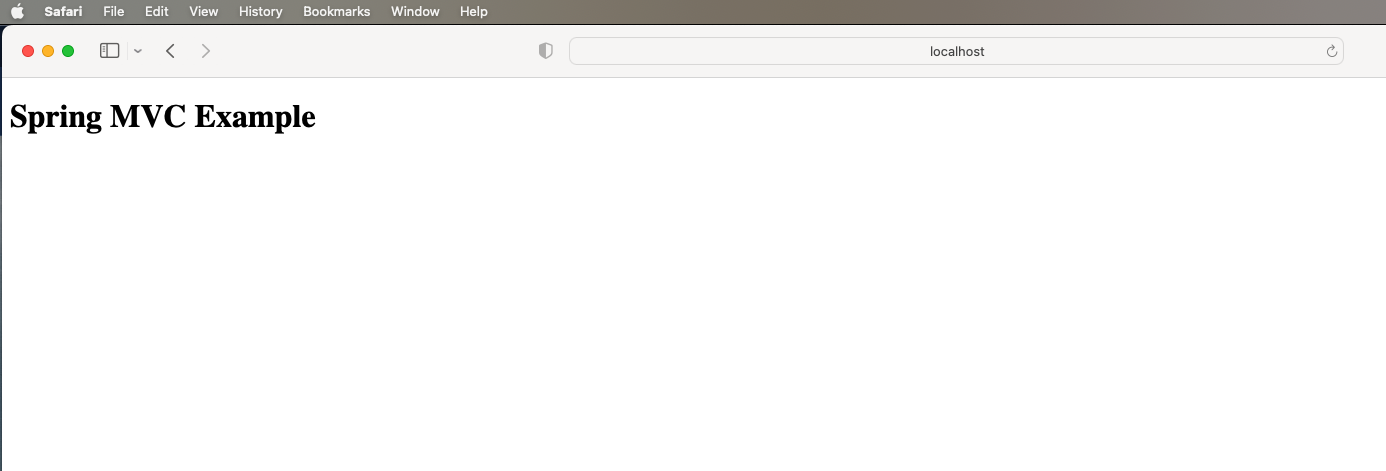
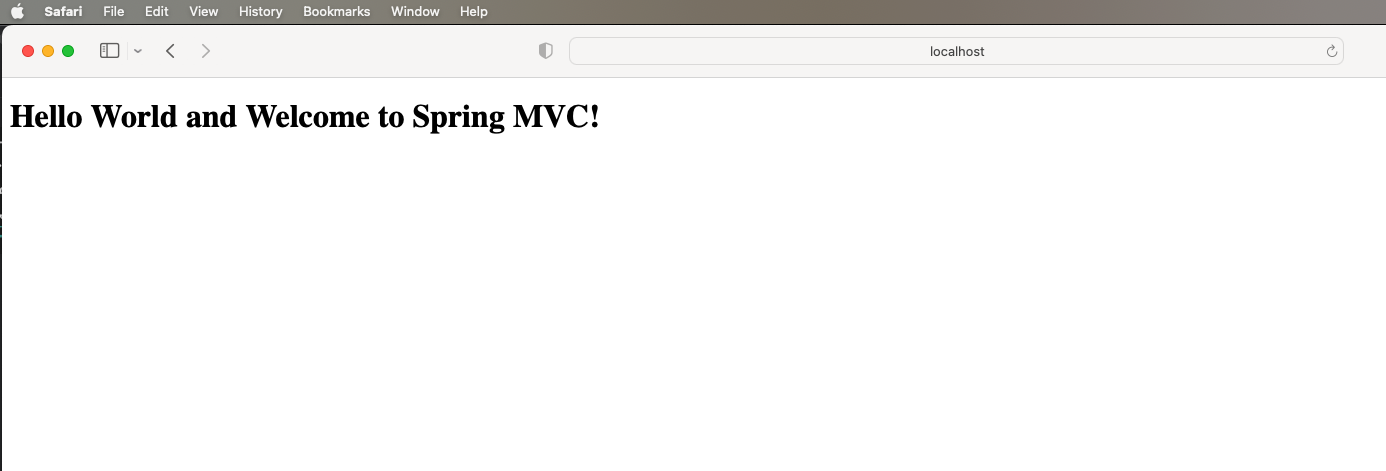
Updated REST and SOAP Architecture

Changed region(s): [[0.0, 0.2081, 0.4343, 0.2972]]

diff --git a/coursemodule4/RESTArchitecture.md b/coursemodule4/RESTArchitecture.md
@@ -1,0 +1,84 @@
+# Rest Architecture
+
+The Representational State Transfer (REST) architectural style is not a technology that can be purchased or added to a software development project. REST is a mindset that elevates information to the status of a first-class component of the architectures we create.
+
+Dr. Roy Fielding's thesis, "**Architectural Styles and the Design of Network-based Software Architecture,**" established and collected the ideas and words used to characterise "RESTful" systems. This is an academic text, but it is a quick and easy approach to demonstrate the fundamentals of RESTful design.
+
+The concept is summarized as follows: by making certain architectural decisions, we may achieve desirable qualities from the systems we construct. Although the limits outlined in this architectural style are broadly applicable, they are not meant to be employed universally.
+
+The REST is founded on a set of principles and limitations that enhance system scalability, simplicity, and interoperability. The following are the major components of the REST architecture:
+
+<img src="../images/RESTArchitecture.png" alt="IntelliJMainScreen">
+
+**Source: DevGenius**
+
+## What does Representational State Transfer mean?
+
+**Transferring**, accessing and manipulating text data **representations** in a **stateless** manner. 
+
+When properly deployed, it enables uniform compatibility across diverse internet applications.
+The term _stateless_ is important in this context since it allows apps to interact agnostic-ally. A **Uniform Resource Locator (URL)** is used to access a RESTful API service. This logical name isolates the resource's identity from what is accepted or returned. 
+
+What is really exposed is not a random service, but an information resource that represents something of value to a consumer.
+The URL must be able to be **created**, **requested**, **updated**, or **removed**. This series of procedures is known colloquially as **C.R.U.D**.
+
+This starting point would be provided someplace to allow users to interact with the library's REST APIs. When the request is returned, it might be in **XML**, **JSON**, or a **hypermedia format**. When feasible, current formats should be reused, although there is an increasing acceptance of correctly developed media types.
+
+A client would send a **Hypertext Transfer Protocol (HTTP)** to GET request to request and obtain the resource. This is the most common request, and it is conducted whenever you input a URL into a browser and press return, pick a bookmark, or click on an anchor reference link.
+
+## Below are the **properties** of RESTful Architecture
+
+* Performance
+* Simplicity
+* Visibility
+* Reliability
+* Scalability
+* Modifiability
+* Portability
+
+## Below are the **constraints** of RESTful Architecture
+
+* Uniform Interface
+* Code on Demand
+* Layered System
+* Client-Server
+* Stateless
+* Cacheable
+
+## RICHARDSON MATURITY MODEL
+
+Leonard Richardson created a Maturity Model in part to assist to clarify the distinctions between SOAP and REST, as well as to provide a framework for defining the many types of systems that many people were incorrectly calling "REST." The categories may be thought of as a measure of how tightly a system embraces the various parts of web technology: information resources, HTTP as an application protocol, and hypermedia as a medium of control.
+
+**LEVEL 0:** This is basically where SOAP is. There are no information resources, HTTP is treated like a transport protocol, and there is no concept of hypermedia.
+
+**Conclusion:** REST and SOAP are different approaches.
+
+**LEVEL 1:** URLs are used, but not always as appropriate information resources, and everything is usually a GET request (including requests that update server state). Most people new to REST first build systems that look like this.
+
+**LEVEL 2:** URLs are used to identify and represent information resources. HTTP is seen as an application protocol, with content negotiation occurring on occasion. Because they only handle non-hypermedia formats, most Internet-facing "REST" web services are only at this level.
+
+**LEVEL 3:** URLs are used to identify and represent information resources. HTTP is regarded as an application protocol that allows for content negotiation. Hypermedia drives client interactions.
+
+## Below are the "Verbs" or "HTTP Methods" used in RESTful Architecture
+
+Below are main HTTP verbs, which are used by well-designed RESTful systems.
+
+* **GET:** Returns an entity in response to the requested resource
+* **POST:** Returns an entity defining the outcome of the action
+* **PUT:** Store a new or modified entity at a URI (Uniform Resource Identifier)
+* **DELETE:** Request that a resource is removed now or later
+* **HEAD:** Returns the entity's header field related to the requested resource
+* **OPTIONS:** Interrogate a server about a resource by asking what other verbs as applicable
+* **PATCH:** Updates only the specified fields of an entity at a URI
+
+## Response Codes
+
+There is a series of response codes used while performing HTTP Operations
+
+Each set of numbers can be categorized as the following:
+
+* 1xx: Informational 
+* 2xx: Success 
+* 3xx: Redirection
+* 4xx: Client error 
+* 5xx: Server error

diff --git a/coursemodule4/SOAPArchitecture.md b/coursemodule4/SOAPArchitecture.md
@@ -1,0 +1,16 @@
+# SOAP: Simple Object Access Protocol
+
+SOAP, which stands for **S**imple **O**bject **A**ccess **P**rotocol, is an architectural style and communications protocol used in online services to exchange structured data. It was created in the late 1990s and quickly became popular as a method of communication across dispersed computers.
+
+SOAP is a set of standards and protocols based on XML. The primary components of the SOAP architecture are as follows:
+
+1. **Message Format:** SOAP messages are encoded in XML, resulting in a platform-independent and language-neutral data exchange protocol. A SOAP message is made up of an envelope that contains the payload and optional headers. The actual data being transferred is included in the payload.
+2. **Protocol Independence:** SOAP messages can be sent using a variety of protocols, including HTTP, SMTP, and others. Message headers often specify the underlying protocol utilized for transmission.
+3. **Service-Oriented:** SOAP is designed around the concept of services, which expose a set of operations that can be invoked by clients. A service defines a contract specifying the message format, available operations, and their input and output parameters.
+4. **Interface Definition:** SOAP services specify their interfaces using Web Services Description Language (WSDL). The Web Services Description Language (WSDL) is an XML-based language that specifies the accessible operations, their input/output message formats, and the location of the service.
+5. **Standardized Protocols:** SOAP relies on various standardized protocols for different purposes. The most commonly used protocol is the SOAP over HTTP, where SOAP messages are transmitted using HTTP as the underlying protocol. Other protocols, such as SOAP over SMTP or SOAP over TCP, can also be used based on the specific requirements.
+6. **Support for Advanced Features:** SOAP supports features like security, reliability, and transactional through extensions and additional standards. For example, WS-Security provides mechanisms for message-level security, while WS-ReliableMessaging ensures reliable message delivery.
+
+SOAP is regarded as more heavyweight and sophisticated than REST owing to its significant usage of XML and support for additional capabilities. It is commonly utilised in corporate settings where system interoperability and sophisticated functionality are critical. However, due to their simplicity and interoperability with web-based technologies, RESTful designs and APIs have acquired increasing appeal in recent years.
+
+It is important to note that the decision between SOAP and REST is determined by the application's unique requirements as well as the current infrastructure. Both designs have advantages and disadvantages and are appropriate for different use cases.

diff --git a/coursemodule3/ConfigureSpringMVC.md b/coursemodule3/ConfigureSpringMVC.md
@@ -92,19 +92,39 @@ Configure a Spring MVC project by following these steps in IntelliJ
 6. Create a new class in java directory `com.springmvc.HelloController`, Here **com.springmvc** is the name of the
    base-package and HelloController is the name of our class.
    <img src="../images/SpringMVC5.png" alt="ControllerScreen">
+   ```java
+    package com.springmvc;
+
+    import org.springframework.stereotype.Controller;
+    import org.springframework.ui.ModelMap;
+    import org.springframework.web.bind.annotation.RequestMapping;
+    import org.springframework.web.bind.annotation.RequestMethod;
+    
+    @Controller
+    public class HelloController {
+    
+        @RequestMapping(value = "/hello_world", method = RequestMethod.GET)
+        public String helloWorld(ModelMap modelMap) {
+            modelMap.addAttribute("message", "Hello World and Welcome to Spring MVC!");
+            return "hello"; // return the name of the file to be loaded, in this context hello.jsp
+        }
+    }
+
+   ```
 7. Create a new directory called jsp inside **WEB-INF** directory (assuming you're using jsp as the template engine).
    For this example, let's create a file named `hello.jsp`.
 
 ```html
-   <!DOCTYPE html>
-<html>
-<head>
-    <title>Spring MVC Demo</title>
-</head>
-<body>
-<h2>${message}</h2>
-</body>
-</html>
+    <!DOCTYPE html>
+    <html lang="en">
+    <head>
+        <meta charset="UTF-8">
+        <title>Spring MVC Example</title>
+    </head>
+    <body>
+    <h1>${message}</h1>
+    </body>
+    </html>
 ```
 
 8. Create a new file named `web.xml` within the **WEB-INF** directory and update its contents as seen in the screenshot
@@ -189,6 +209,14 @@ Configure a Spring MVC project by following these steps in IntelliJ
 14. Go to the browser and access http://localhost:8080/learn-springmvc/hello_world
 
  <img src="../images/SpringMVCAppLaunch.png" alt="App Launch">
+
+# Things to keep in mind
+* **Controller** is a Java class that has the @Controller special annotation and indicates that the class is a Spring MVC Controller.
+* The **Controller** class, like any other java class, has java methods, however these methods are translated to web requests.
+* The **@RequestMapping** annotations are used to link these functions to HTTP requests.
+* **@RequestMapping** annotation contains the name of the web request such as /hello_world.
+* **@RequestMapping** supports all types of web requests such GET, POST etc.,
+* These methods will just return the name of the view page.
 
 ## 2. Using Spring Initializr
 

diff --git a/README.md b/README.md
@@ -27,28 +27,26 @@
 * [Introduction to Spring MVC](./coursemodule3/IntroductionToSpringMVC.md)
 * [Spring MVC Terminology](./coursemodule3/SpringMVCTerminology.md)
 * [Configuration of Spring MVC](./coursemodule3/ConfigureSpringMVC.md)
-* Controllers and handling requests
-* Views and rendering responses (JSP or Thymeleaf)
 * Form handling and validation
 * File uploads
 
 ## Course Module 4: WebServices
-* REST
-* SOAP
+* [REST](./coursemodule4/RESTArchitecture.md)
+* [SOAP](./coursemodule4/SOAPArchitecture.md)
 
-## Course Module 5: Spring Data
-* Introduction to Spring Data
-* Overview of Data Access Object (DAO) pattern
-* Spring Data JPA
-* Spring Data JDBC
-* Spring Data with different DB (H2, Mysql, and MongoDB)
-
-## Course Module 6: Spring Boot
+## Course Module 5: Spring Boot
 * Introduction to Spring Boot & features
 * Advantages of using Spring Boot
 * Creating and configuring a Spring Boot application
 * Using Spring Boot starters
 * Running and deploying Spring Boot applications
+
+## Course Module 6: Spring Data
+* Introduction to Spring Data
+* Overview of Data Access Object (DAO) pattern
+* Spring Data JPA
+* Spring Data JDBC
+* Spring Data with different DB (H2, Mysql, and MongoDB)
 
 ## Course Module 7: Spring Security
 * Introduction to Spring Security
